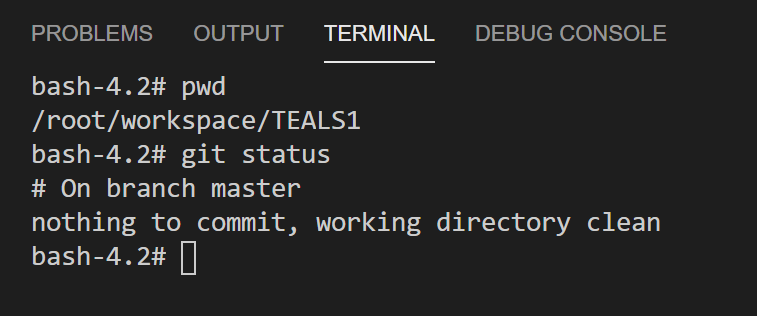
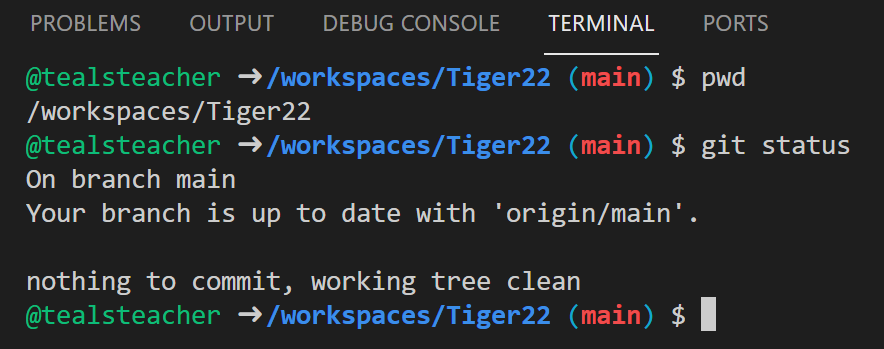
ReadyToTest

diff --git a/README.md b/README.md
@@ -54,10 +54,12 @@ Click on `New codespace`
 
 ![newCodespace](https://raw.githubusercontent.com/EphrataTEALS/Tiger22/main/images/newCodespace.png)
 
-Select a Machine Type.  Recommend a 4-core 8GB RAM
+Select a Machine Type.  
+Recommend a 4-core 8GB RAM
+
 Click on Create codespace
 
-![machinetype](https://raw.githubusercontent.com/EphrataTEALS/Tiger22/main/images/machinetypeb.png)
+![machinetype](https://raw.githubusercontent.com/EphrataTEALS/Tiger22/main/images/machinetype.png)
 
 When the Codespace opens it should look something like this
 
@@ -78,6 +80,7 @@ This step will involve entering some commands into the terminal, or command line
 ```
 pwd
 ```
+It should return the path which will be something like `/workspaces/Tiger22`
 
   3. Now enter the following command (remember, "entering" a command means typing or pasting it into the terminal, then pressing Enter to execute it):
 
@@ -85,11 +88,11 @@ pwd
 git status
 ```
 
-  Your terminal should now look like the following, except it will say "ephrataTEALS2021" instead of "TEALS1":
+  Your terminal should now look like the following:
 
   ![terminalOutput](https://raw.githubusercontent.com/EphrataTEALS/Tiger22/main/images/terminalOutput.png)
 
-  4. Enter the following command, replacing `<GitHubusername>` with the `<firstname>-<lastinitial>-ephrata-teals` username you created earlier:
+  4. Enter the following command, replacing `<GitHubusername>` with the your username you created earlier:
 
 ```
 git config --global user.name "<GitHubusername>"
@@ -122,10 +125,10 @@ git remote -v
   9. Make sure that your terminal displays the following:
 
 ```
-> origin    https://github.com/<firstname>-<lastinitial>-ephrata-teals/ephrataTEALS2021 (fetch)
-> origin    https://github.com/<firstname>-<lastinitial>-ephrata-teals/ephrataTEALS2021 (push)
-> upstream  https://github.com/DataSnowman/ephrataTEALS2021.git (fetch)
-> upstream  https://github.com/DataSnowman/ephrataTEALS2021.git (push)
+> origin    https://github.com/<yourusername>/Tiger22 (fetch)
+> origin    https://github.com/<yourusername>/Tiger22 (push)
+> upstream  https://github.com/EphrataTEALS/Tiger22.gitb (fetch)
+> upstream  https://github.com/EphrataTEALS/Tiger22.git (push)
 ```
 
   If this is the case go to step 12
@@ -133,15 +136,15 @@ git remote -v
 If it only shows the following:
 
 ```
-> origin  https://github.com/<firstname>-<lastinitial>-ephrata-teals/ephrataTEALS2021 (fetch)
-> origin  https://github.com/<firstname>-<lastinitial>-ephrata-teals/ephrataTEALS2021 (push)
+> origin  https://github.com/<yourusername>/Tiger22 (fetch)
+> origin  https://github.com/<yourusername>/Tiger22 (push)
 ```
 Then 
 
   10. Enter the following command as-is (_do not_ replace the username):
 
 ```
-git remote add upstream https://github.com/DataSnowman/ephrataTEALS2021.git
+git remote add upstream https://github.com/EphrataTEALS/Tiger22.git
 ```
 
   11. Enter the following command again:
@@ -158,7 +161,7 @@ git pull upstream main
 
 **Run your CodespacesBeta.java program!**
 
-  1. In `sampleCode >`, find `CodespacesBeta.java`.  The contents of the file should look like this:
+  1. In `sampleCode >`, find `CodespacesBeta.java` in the `GitHubCodespacesTest` folder.  The contents of the file should look like this:
 
 ```
 package sampleCode.GitHubCodespacesTest;
@@ -189,7 +192,7 @@ Congratulations! You just ran your first program!
   2. In `CodespacesBeta.java`, find the line that reads `package sampleCode.GitHubCodespacesTest;`
   3. Change sampleCode to studentWork so it reads `package studentWork.GitHubCodespacesTest;`
   4. In `CodespacesBeta.java`, find the line that reads `System.out.println("Welcome Back !!!");`
-  5. Replace `Welcome Back` with `Its a new school Year` (or anything, really! You could write `Happy School Year <your dog's name>` or `Time to get school supplies`)
+  5. Replace `Welcome Back` with `Its a New Year` (or anything, really! You could write `Happy New Year <your dog's name>` or `Time to get back to work`)
   6. Click the "Run and Debug" button again
   7. You should see the new greeting in the terminal. You just wrote your first piece of code!
   8. To save your work, enter the following sequence of commands in the terminal:
